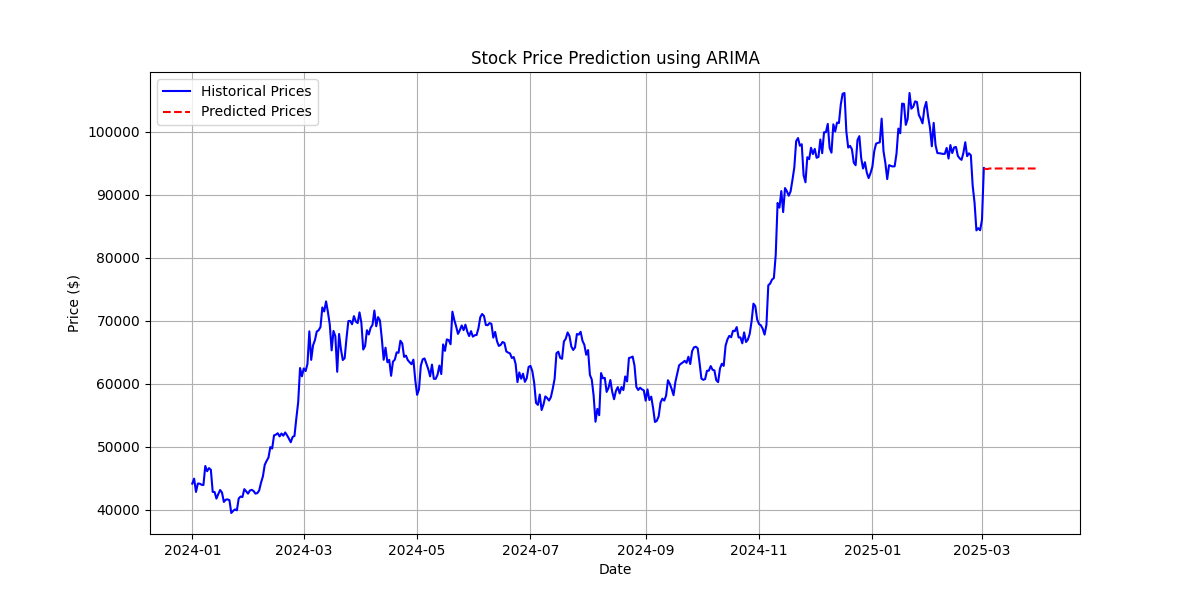
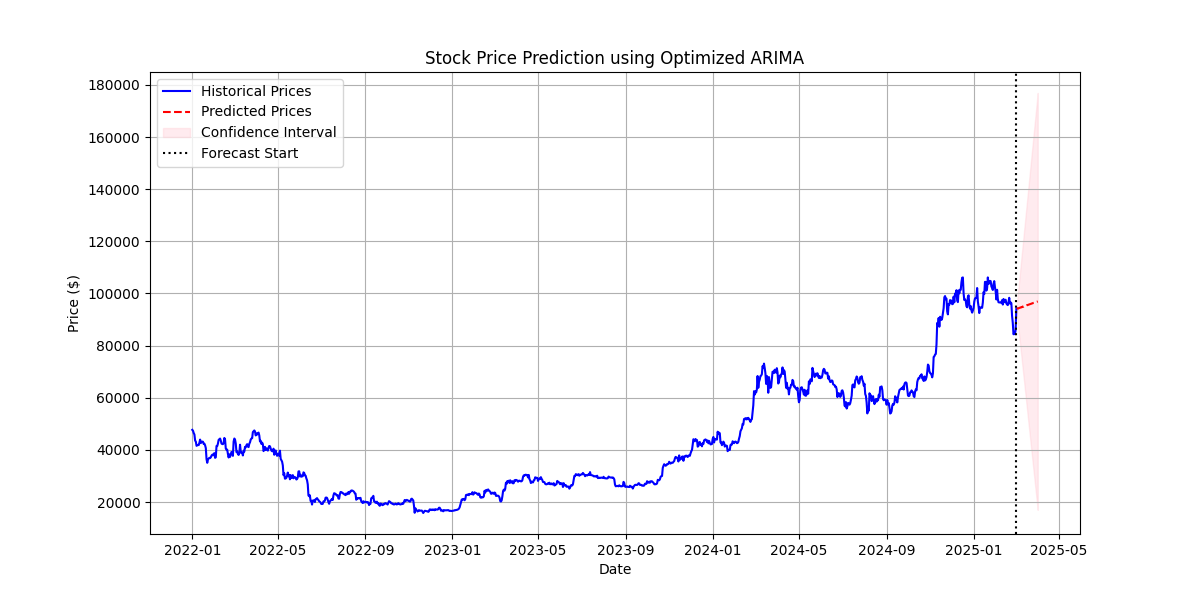
Initial commit - Uploading stock analysis project

diff --git a/stock_forecast.py b/stock_forecast.py
@@ -1,11 +1,67 @@
+# import pandas as pd
+# from sqlalchemy import create_engine
+# from statsmodels.tsa.arima.model import ARIMA
+# import matplotlib.pyplot as plt
+
+# # ✅ Connect to PostgreSQL
+# db_username = "postgres"
+# db_password = "ESgt09601698."
+# db_host = "localhost"
+# db_port = "5432"
+# db_name = "finance_db"
+
+# engine = create_engine(f"postgresql://{db_username}:{db_password}@{db_host}:{db_port}/{db_name}")
+
+# # ✅ Query stock data
+# query = """
+# SELECT date, close_price
+# FROM stock_data
+# WHERE symbol = 'BTC-USD'
+# ORDER BY date ASC;
+# """
+
+# stock_data = pd.read_sql(query, engine)
+# stock_data["date"] = pd.to_datetime(stock_data["date"])
+# stock_data.set_index("date", inplace=True)
+
+# # ✅ Train ARIMA Model
+# model = ARIMA(stock_data["close_price"], order=(5,1,0))  # (p,d,q) = (5,1,0)
+# model_fit = model.fit()
+
+# # ✅ Forecast Next 30 Days
+# forecast = model_fit.forecast(steps=30)
+# future_dates = pd.date_range(start=stock_data.index[-1], periods=30, freq="D")
+
+# # ✅ Plot Predictions
+# plt.figure(figsize=(12, 6))
+# plt.plot(stock_data.index, stock_data["close_price"], label="Historical Prices", color="blue")
+# plt.plot(future_dates, forecast, label="Predicted Prices", color="red", linestyle="dashed")
+# plt.title("Stock Price Prediction using ARIMA")
+# plt.xlabel("Date")
+# plt.ylabel("Price ($)")
+# plt.legend()
+# plt.grid()
+# plt.show()
+
 import pandas as pd
-from sqlalchemy import create_engine
-from statsmodels.tsa.arima.model import ARIMA
+import numpy as np
 import matplotlib.pyplot as plt
+from statsmodels.tsa.arima.model import ARIMA
+from statsmodels.tsa.stattools import adfuller
+import itertools
+from sqlalchemy import create_engine
+
+import pandas as pd
+import numpy as np
+import itertools
+import matplotlib.pyplot as plt
+from statsmodels.tsa.arima.model import ARIMA
+from statsmodels.tsa.stattools import adfuller
+from sqlalchemy import create_engine
 
 # ✅ Connect to PostgreSQL
 db_username = "postgres"
-db_password = "ESgt09601698."
+db_password = "ESgt09601698."  # Replace with actual password
 db_host = "localhost"
 db_port = "5432"
 db_name = "finance_db"
@@ -24,21 +80,78 @@ stock_data = pd.read_sql(query, engine)
 stock_data["date"] = pd.to_datetime(stock_data["date"])
 stock_data.set_index("date", inplace=True)
 
-# ✅ Train ARIMA Model
-model = ARIMA(stock_data["close_price"], order=(5,1,0))  # (p,d,q) = (5,1,0)
+# ✅ Check for Stationarity (ADF Test)
+adf_result = adfuller(stock_data["close_price"])
+is_stationary = adf_result[1] < 0.05  # If p-value < 0.05, data is stationary
+
+if not is_stationary:
+    print("Data is NOT stationary. Applying differencing...")
+    stock_data["diff_close_price"] = stock_data["close_price"].diff().dropna()
+    use_diff = True
+else:
+    stock_data["diff_close_price"] = stock_data["close_price"]
+    use_diff = False
+
+# ✅ Grid Search for Best ARIMA (p, d, q)
+p_values = range(0, 6)
+d_values = range(0, 2)
+q_values = range(0, 6)
+best_aic = np.inf
+best_order = None
+
+for p, d, q in itertools.product(p_values, d_values, q_values):
+    try:
+        model = ARIMA(stock_data["diff_close_price"].dropna(), order=(p, d, q))
+        results = model.fit()
+        if results.aic < best_aic:
+            best_aic = results.aic
+            best_order = (p, d, q)
+    except:
+        continue
+
+print(f"Best ARIMA Order: {best_order}")
+
+# ✅ Train Best ARIMA Model
+model = ARIMA(stock_data["diff_close_price"].dropna(), order=best_order)
 model_fit = model.fit()
 
 # ✅ Forecast Next 30 Days
-forecast = model_fit.forecast(steps=30)
-future_dates = pd.date_range(start=stock_data.index[-1], periods=30, freq="D")
+forecast_steps = 30
+forecast = model_fit.get_forecast(steps=forecast_steps)
+forecast_index = pd.date_range(start=stock_data.index[-1] + pd.Timedelta(days=1), periods=forecast_steps, freq="D")
+forecast_values = forecast.predicted_mean
+conf_int = forecast.conf_int()
 
-# ✅ Plot Predictions
+# ✅ If differencing was applied, invert it to restore original price scale
+if use_diff:
+    last_actual_value = stock_data["close_price"].iloc[-1]
+    forecast_values = last_actual_value + forecast_values.cumsum()
+    conf_int.iloc[:, 0] = last_actual_value + conf_int.iloc[:, 0].cumsum()
+    conf_int.iloc[:, 1] = last_actual_value + conf_int.iloc[:, 1].cumsum()
+
+# ✅ Create a New DataFrame for Predictions
+forecast_df = pd.DataFrame({
+    "date": forecast_index,
+    "close_price": forecast_values
+})
+
+# ✅ Combine Historical Data with Predictions
+full_data = pd.concat([stock_data.reset_index()[["date", "close_price"]], forecast_df])
+
+# ✅ Save Combined Data to CSV for Tableau
+full_data.to_csv("Bitcoin_stock_analysis_updated.csv", index=False)
+print("✅ Data saved successfully as 'Bitcoin_stock_analysis_updated.csv'")
+
+# ✅ Plot Improved Predictions
 plt.figure(figsize=(12, 6))
 plt.plot(stock_data.index, stock_data["close_price"], label="Historical Prices", color="blue")
-plt.plot(future_dates, forecast, label="Predicted Prices", color="red", linestyle="dashed")
-plt.title("Stock Price Prediction using ARIMA")
+plt.plot(forecast_index, forecast_values, label="Predicted Prices", color="red", linestyle="dashed")
+plt.fill_between(forecast_index, conf_int.iloc[:, 0], conf_int.iloc[:, 1], color="pink", alpha=0.3, label="Confidence Interval")
+plt.axvline(x=stock_data.index[-1], color='black', linestyle="dotted", label="Forecast Start")
+plt.title("Stock Price Prediction using Optimized ARIMA")
 plt.xlabel("Date")
 plt.ylabel("Price ($)")
 plt.legend()
 plt.grid()
 plt.show()
+

diff --git a/README.md b/README.md
@@ -1,2 +1,160 @@
-# BTC-USD_Analysis
-A technical analysis of BTC-USD using Python, Tableau, and financial indicators like EMA, MACD, and RSI.
+# 📊 Stock Price Analysis: EMA, MACD, RSI & Trading Volume with ARIMA Forecasting
+
+## 📝 Project Overview
+This project provides **a complete financial analysis** of **Bitcoin (BTC-USD)**, leveraging **technical indicators** to study price movements and **ARIMA forecasting** for predicting future trends. The analysis is divided into two key sections:
+
+1⃣ **Historical Data Analysis** using **Exponential Moving Averages (EMA), Moving Average Convergence Divergence (MACD), Relative Strength Index (RSI), and Trading Volume** to evaluate past price movements.  
+2⃣ **Stock Price Forecasting** using an **optimized ARIMA model**, predicting **Bitcoin’s price for the next 30 days**.
+
+The **historical data is sourced from a dedicated ETL Pipeline project**, ensuring **data consistency and quality** before analysis. While **technical analysis is visualized in Tableau**, **forecasting is conducted and plotted exclusively in Python**, providing accurate projections based on time-series modeling.
+
+---
+
+## 🎯 Key Objectives
+- ✅ **Analyze Bitcoin price trends** with **technical indicators**.
+- ✅ **Predict future prices** using **time-series forecasting**.
+- ✅ **Visualize historical data trends** in **Tableau**.
+- ✅ **Support traders and analysts** in making **data-driven decisions**.
+
+---
+
+## ⚡ Why This Project Matters
+Financial markets are inherently **volatile**, requiring **data-driven insights** for decision-making. By combining **technical indicators and time-series forecasting**, this project enables **better market understanding and risk management**.
+
+- **Trend Analysis:** EMA helps identify **short-term & long-term price directions**.
+- **Momentum Measurement:** MACD detects **bullish or bearish strength**.
+- **Market Condition Assessment:** RSI signals **overbought or oversold conditions**.
+- **Price Forecasting:** ARIMA predicts **short-term price movements** based on historical data.
+
+Using these tools, traders can make **more informed investment decisions**, reducing uncertainty and improving profitability.
+
+---
+
+## 🛠 Technologies Used
+- **Python** – Data analysis & forecasting.
+- **Pandas & NumPy** – Data manipulation & statistical calculations.
+- **Matplotlib & Seaborn** – Data visualization.
+- **Statsmodels (ARIMA)** – Time-series forecasting.
+- **PostgreSQL (SQLAlchemy)** – Data storage & retrieval.
+- **Tableau** – Interactive **historical data visualization**.
+- **Git & GitHub** – Version control & project tracking.
+
+---
+
+## 📊 **Tableau Dashboard (Historical Data)**
+### 🔹 **Dashboard Components**
+The **Tableau dashboard** presents **historical Bitcoin price movements** through **technical indicators**, helping analysts understand past market behavior.
+
+1⃣ **Bitcoin Price with 12-Day & 26-Day EMA**  
+   - **Why EMA?** Exponential Moving Average gives **higher weight to recent prices**, reacting **faster** to market movements than a **Simple Moving Average (SMA)**.
+   - **How it works:** The **12-day EMA (short-term)** and **26-day EMA (long-term)** help detect trend shifts.
+   - **Buy Signal:** 12-day EMA crossing **above** 26-day EMA.
+   - **Sell Signal:** 12-day EMA crossing **below** 26-day EMA.
+
+2⃣ **MACD Indicator: Histogram, MACD Line & Signal Line**  
+   - **Why MACD?** Measures **momentum** and **trend direction**.
+   - **How it works:** MACD = (12-day EMA - 26-day EMA).  
+   - The **Signal Line (9-day EMA of MACD)** is used for crossovers:
+     - **Bullish crossover:** MACD **rises above** Signal Line → **Buy**.
+     - **Bearish crossover:** MACD **falls below** Signal Line → **Sell**.
+
+3⃣ **Relative Strength Index (RSI)**  
+   - **Why RSI?** Measures **market momentum** to identify **overbought or oversold conditions**.
+   - **How it works:** RSI ranges **from 0 to 100**:
+     - **RSI > 70** = **Overbought** (possible price drop).
+     - **RSI < 30** = **Oversold** (possible price increase).
+
+4⃣ **Trading Volume Over Time**  
+   - **Why Trading Volume?** Confirms the **strength of price movements**.
+   - **How it works:** Large price swings **with high volume** indicate **strong trends**, while **low volume** suggests **false breakouts**.
+
+🔗 **[View Interactive Tableau Dashboard](https://public.tableau.com/views/TableauDashboard_17416361239740/Dashboard1?:language=es-ES&publish=yes&:sid=&:redirect=auth&:display_count=n&:origin=viz_share_link)**
+
+---
+
+## 📈 **Stock Price Forecasting (Python Only)**
+### 🔹 **Why ARIMA?**
+- ARIMA (**AutoRegressive Integrated Moving Average**) is a **statistical model** that captures **trends, seasonality, and patterns** in time-series data.
+- Unlike basic moving averages, ARIMA uses **past values** to make accurate predictions.
+
+### 🔹 **How the ARIMA Model Works**
+1⃣ **Checks Data Stationarity**  
+   - ARIMA requires **stationary data** (constant mean & variance over time).  
+   - The **Augmented Dickey-Fuller (ADF) Test** determines if differencing is required.
+
+2⃣ **Parameter Selection (p, d, q)**  
+   - **p (AutoRegression - AR):** Past values used in prediction.  
+   - **d (Differencing - I):** How many times to make data stationary.  
+   - **q (Moving Average - MA):** Past errors included in the model.
+
+3⃣ **Grid Search Optimization**  
+   - The best **(p, d, q)** parameters are selected **automatically** using **AIC (Akaike Information Criterion)**.
+
+4⃣ **Forecasting the Next 30 Days**  
+   - The trained ARIMA model **predicts Bitcoin prices** for the next **30 days**.
+   - The results include a **confidence interval** to show potential volatility.
+
+5⃣ **Visualization (Python Plot Only)**  
+   - Historical prices are plotted in **blue**.
+   - Forecasted prices are shown in **red dashed lines**.
+   - Confidence intervals appear as **shaded pink areas**.
+
+📌 **ARIMA forecasting is NOT visualized in Tableau** because **Python offers more accurate and professional forecasting tools**.
+
+---
+
+## 📂 **Project Structure**
+```
+📂 FINANCE_PROJECT
+│── 📂 ETL_Pipeline  # Data cleaning & preparation scripts
+│── 📂 Stock_Analysis
+│   │── stock_analysis.py  # Technical indicators analysis
+│   │── stock_forecast.py  # ARIMA-based forecasting
+│   │── export_to_csv.py  # Exports clean data for Tableau
+│   │── Bitcoin_stock_analysis.csv  # Historical stock data
+│   │── Bitcoin_stock_analysis_updated.csv  # Historical + Forecasted data
+│── 📂 Tableau_Dashboard.twb  # Tableau visualization workbook
+│── README.md  # Project Documentation
+```
+
+---
+
+## 🛠 Setup & Installation
+### 1⃣ Clone the Repository
+```bash
+git clone https://github.com/ESGT1299/Stock_Analysis.git
+cd Stock_Analysis
+```
+### 2⃣ Install Dependencies
+```bash
+pip install -r requirements.txt
+```
+### 3⃣ Run the Analysis
+```bash
+python stock_analysis.py
+python export_to_csv.py
+python stock_forecast.py
+```
+### 4⃣ Load Data into Tableau
+Open Tableau and import the data obtained from the **export_to_csv.py** file.
+
+
+## 📢 Conclusion
+This project successfully integrates technical analysis with forecasting to provide data-driven market insights. By leveraging Python for analysis and Tableau for visualization, we create a powerful tool for traders & analysts.
+
+**🚀 Future Work**: Implement LSTM deep learning models for improved forecasting accuracy.
+
+## 📌 Key Takeaways
+✔ **Technical indicators provide actionable insights** into stock market trends.
+✔ **ARIMA modeling enhances decision-making** with short-term price predictions.
+✔ **Tableau dashboards enable effective communication** of financial trends.
+✔ **Combining multiple analysis techniques improves forecasting accuracy**.
+
+---
+
+## 🤝 Contribution & Contact
+This project is part of my **financial data science portfolio**, demonstrating expertise in **quantitative analysis, machine learning, and data visualization**. 
+
+For feedback, collaboration, or inquiries, feel free to reach out!
+
+📧 **Contact:** [https://www.linkedin.com/in/erick-guagua-14b143214/]
